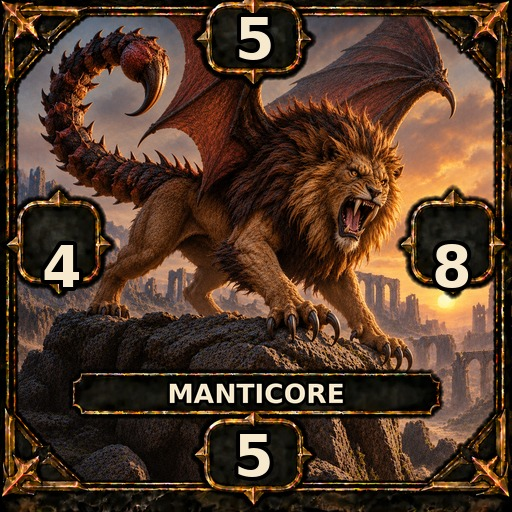
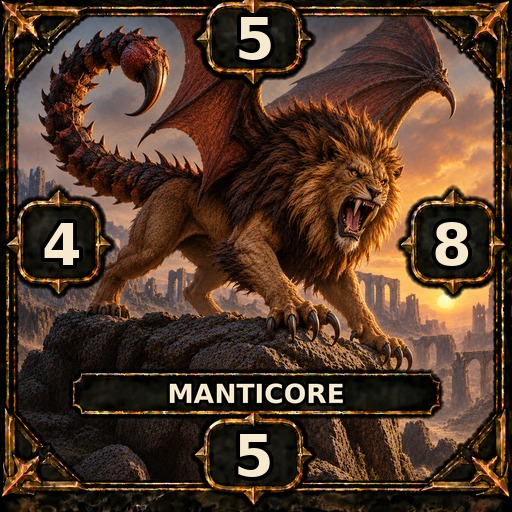
Centre the side numbers on the new card template; fix placeholder lookup
The side (left/right) rank numbers sat visibly low on the newest cards.
The plaque detector only trusted a side box's vertical position when its
dark blob had a solid fill (> 0.82); the new template paints a soft shadow
halo around each plaque, which enlarges the blob's bounding box and drops
fill to ~0.6 without moving its centre. Those plaques were rejected as
"unclean" and the number fell back to the old template's canonical
Y (0.520), ~0.04 of the canvas below the true centre (~0.478).

Fill is no longer a criterion. Left and right still share one vertical
centre (the mean of both plausible boxes, so the two side numbers sit at
exactly the same height); a box is plausible when its blob is a lone
plaque (height < 0.19), which still excludes one merged into dark art.
Cards whose plaques already passed re-bake byte-identical, so this touches
exactly the 15 affected cards: the ten Rares and the five Epics whose
detection had fallen back (Roc, Wyvern, Cerberus, Griffin, Pegasus).

Also fix bake_new_card.py's placeholder lookup: "*_slug.png" matched any
name the slug is a suffix of, so baking "Dragon" had silently overwritten
the Ancient Dragon placeholder. It now matches the exact NN_slug.png. The
three dragon placeholders were rebuilt from their sources and all 42
new-art placeholders verified against their sources by image similarity;
the deployed dragon JPGs were unaffected (they are named from the
creature directly) and re-bake byte-identical.
[…]

Changed region(s): [[0.8438, 0.4062, 0.9375, 0.5938], [0.0625, 0.4062, 0.1562, 0.5625]]

diff --git a/scripts/bake_card_numbers.py b/scripts/bake_card_numbers.py
@@ -73,16 +73,24 @@ def detect_boxes(gray, size):
     """Centre of each of the four number boxes as canvas fractions.
 
     Top/bottom are found independently. Left and right share one vertical
-    centre taken from whichever of the two is a clean (unmerged) box, so a
-    left/right box that blends into dark artwork still gets the right Y while
-    keeping its own reliable X. Falls back to canonical positions if needed.
+    centre (the mean of both plausible boxes) so the two side numbers sit at
+    exactly the same height, while each keeps its own reliable X. A box is
+    plausible when its blob is a lone plaque (height < 0.19 canvas); one
+    that has merged into dark artwork is excluded, so the other side's Y is
+    used, falling back to the canonical position only if neither is usable.
+
+    Fill ratio is deliberately NOT a criterion. The newer card template
+    paints a soft shadow halo around each plaque, which enlarges the blob's
+    bounding box (lowering fill) without moving its centre; judging by fill
+    wrongly rejected those plaques and dropped the number to the canonical
+    Y, leaving the side numbers visibly low.
     """
     t = _blob(gray, size, *CANON["top"])
     b = _blob(gray, size, *CANON["bottom"])
     lft = _blob(gray, size, *CANON["left"])
     rgt = _blob(gray, size, *CANON["right"])
-    clean = [c[1] for c in (lft, rgt) if c and c[3] > 0.82 and c[2] < 0.19]
-    fy = float(np.mean(clean)) if clean else CANON["left"][1]
+    plausible = [c[1] for c in (lft, rgt) if c and c[2] < 0.19]
+    fy = float(np.mean(plausible)) if plausible else CANON["left"][1]
     return {
         "top": (t[0], t[1]) if t else CANON["top"],
         "bottom": (b[0], b[1]) if b else CANON["bottom"],

diff --git a/scripts/bake_new_card.py b/scripts/bake_new_card.py
@@ -72,7 +72,10 @@ def main(src, name):
         sys.exit(f"No creature named {name!r} in {CREATURES}")
 
     us_slug = re.sub(r"[^a-z0-9]+", "_", creature["name"].lower()).strip("_")
-    matches = glob.glob(os.path.join(PLACEHOLDERS, f"*_{us_slug}.png"))
+    # Match the exact NN_slug.png name. A looser "*_slug.png" would also match
+    # names this one is a suffix of ("Dragon" -> "Ancient Dragon"), and then
+    # baking one card could silently overwrite another's placeholder.
+    matches = glob.glob(os.path.join(PLACEHOLDERS, f"[0-9][0-9]_{us_slug}.png"))
     placeholder = matches[0] if matches else os.path.join(PLACEHOLDERS, f"{idx:02d}_{us_slug}.png")
 
     # 1) placeholder: source art + name baked into the banner at full resolution
